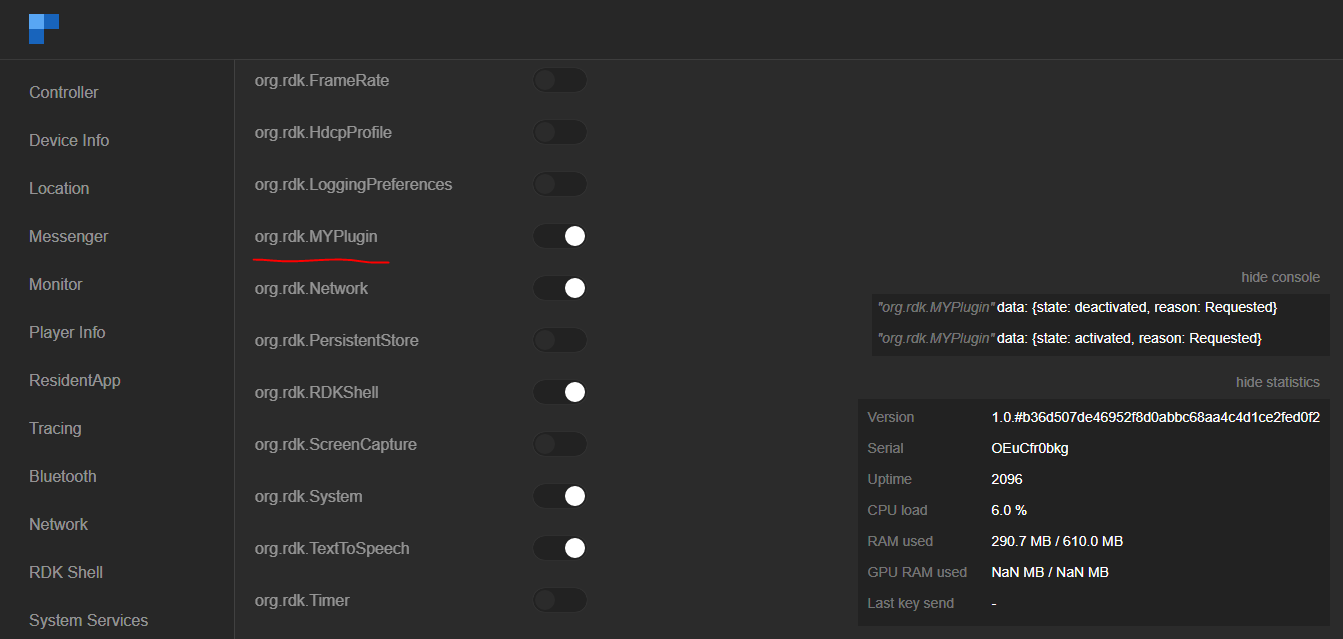
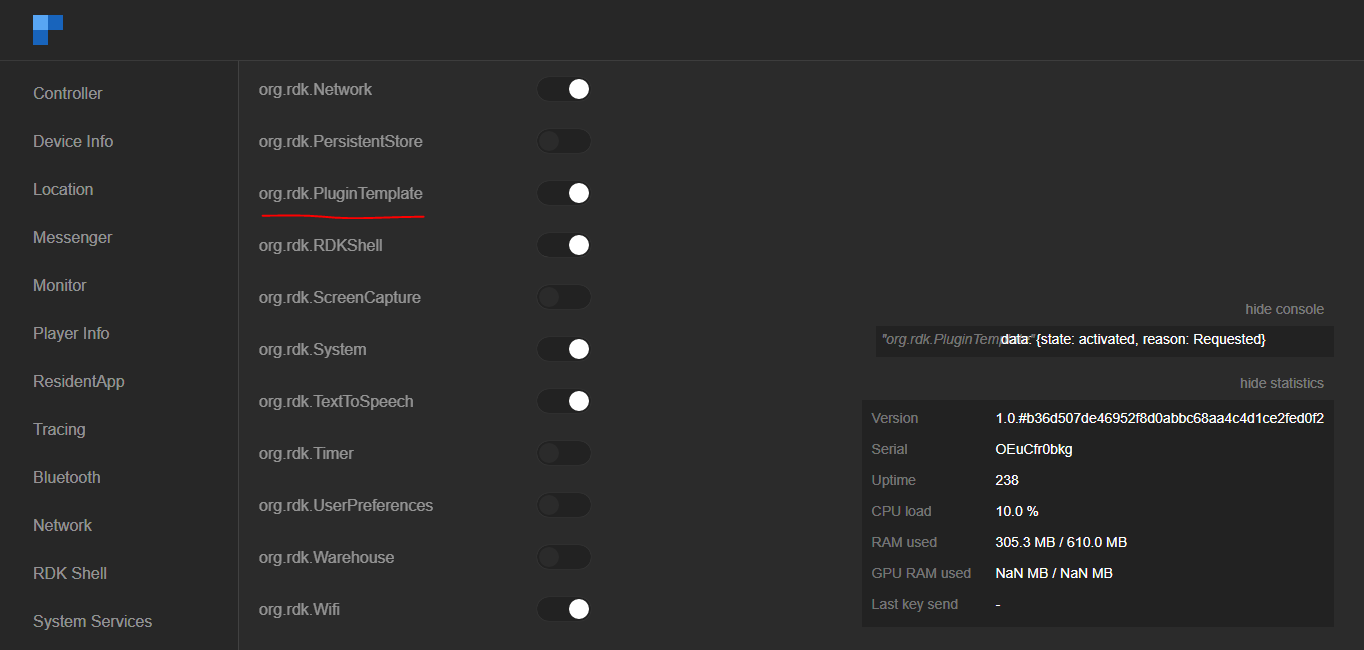
PluginTemplate added

diff --git a/PluginTemplate/PluginTemplate.cpp b/PluginTemplate/PluginTemplate.cpp
@@ -4,7 +4,7 @@ should be defined inside the below namespace.
 */
 
 // include all the depended libraries
-#include "MYPlugin.h"
+#include "PluginTemplate.h"
 #include <algorithm>
 #include "dsMgr.h"
 #include "libIBusDaemon.h"
@@ -37,33 +37,33 @@ namespace WPEFramework {
 
     namespace Plugin {
 
-        SERVICE_REGISTRATION(MYPlugin, 1, 0);		//service registration MACRO used for registering service
+        SERVICE_REGISTRATION(PluginTemplate, 1, 0);		//service registration MACRO used for registering service
 
-        MYPlugin* MYPlugin::_instance = nullptr;
+        PluginTemplate* PluginTemplate::_instance = nullptr;
 
-        MYPlugin::MYPlugin()				//constructor
+        PluginTemplate::PluginTemplate()				//constructor
             : AbstractPlugin()
         {
             LOGINFO("ctor");
-            MYPlugin::_instance = this;
+            PluginTemplate::_instance = this;
 	    
 	    // All the methods declared in Plugin.h should be registered here	
-            registerMethod("getMYPluginStatus", &MYPlugin::getMYPluginStatus, this);
-            registerMethod("getMYPluginList", &MYPlugin::getMYPluginList, this);
-            registerMethod("getMYPluginInfo", &MYPlugin::getMYPluginInfo, this);
-            registerMethod("getConnectedVideoDisplays", &MYPlugin::getConnectedVideoDisplays, this);
+            registerMethod("getPluginTemplateStatus", &PluginTemplate::getPluginTemplateStatus, this);
+            registerMethod("getPluginTemplateList", &PluginTemplate::getPluginTemplateList, this);
+            registerMethod("getPluginTemplateInfo", &PluginTemplate::getPluginTemplateInfo, this);
+            registerMethod("getConnectedVideoDisplays", &PluginTemplate::getConnectedVideoDisplays, this);
 
         }
 
-        MYPlugin::~MYPlugin()				//destrucor
+        PluginTemplate::~PluginTemplate()				//destrucor
         {
             LOGINFO("dtor");
-            MYPlugin::_instance = nullptr;
+            PluginTemplate::_instance = nullptr;
         }
 
 
 	//initialize and deinitialize or activate or deactivate handler for the plugin services:
-        const string MYPlugin::Initialize(PluginHost::IShell* /* service */)
+        const string PluginTemplate::Initialize(PluginHost::IShell* /* service */)
         {
             LOGINFO();
 
@@ -72,14 +72,14 @@ namespace WPEFramework {
             return (string());
         }
 
-        void MYPlugin::Deinitialize(PluginHost::IShell* /* service */)
+        void PluginTemplate::Deinitialize(PluginHost::IShell* /* service */)
         {
             LOGINFO();
 	    DeinitializeIARM();
 
         }
 
-        void MYPlugin::InitializeIARM()
+        void PluginTemplate::InitializeIARM()
         {
             LOGINFO();
 
@@ -101,7 +101,7 @@ namespace WPEFramework {
         }
 
 
-        void MYPlugin::DeinitializeIARM()
+        void PluginTemplate::DeinitializeIARM()
         {
             LOGINFO();
 
@@ -124,7 +124,7 @@ namespace WPEFramework {
 
 
 	// hedmi event handler
-        void MYPlugin::dsHdmiEventHandler(const char *owner, IARM_EventId_t eventId, void *data, size_t len)
+        void PluginTemplate::dsHdmiEventHandler(const char *owner, IARM_EventId_t eventId, void *data, size_t len)
         {
             LOGINFO();
             switch (eventId)
@@ -134,8 +134,8 @@ namespace WPEFramework {
                     IARM_Bus_DSMgr_EventData_t *eventData = (IARM_Bus_DSMgr_EventData_t *)data;
                     int hdmi_hotplug_event = eventData->data.hdmi_hpd.event;
                     LOGINFO("Received IARM_BUS_DSMGR_EVENT_HDMI_HOTPLUG  event data:%d ", hdmi_hotplug_event);
-                    if(MYPlugin::_instance)
-                        MYPlugin::_instance->connectedVideoDisplaysUpdated(hdmi_hotplug_event);
+                    if(PluginTemplate::_instance)
+                        PluginTemplate::_instance->connectedVideoDisplaysUpdated(hdmi_hotplug_event);
                 }
                 break;
             default:
@@ -159,7 +159,7 @@ namespace WPEFramework {
        
 	
 	// to get connected video displays
-        uint32_t MYPlugin::getConnectedVideoDisplays(const JsonObject& parameters, JsonObject& response)
+        uint32_t PluginTemplate::getConnectedVideoDisplays(const JsonObject& parameters, JsonObject& response)
         {
             LOGINFOMETHOD();
 
@@ -170,7 +170,7 @@ namespace WPEFramework {
         }
 
 
-        void MYPlugin::getConnectedVideoDisplaysHelper(vector<string>& connectedDisplays)
+        void PluginTemplate::getConnectedVideoDisplaysHelper(vector<string>& connectedDisplays)
         {
             LOGINFO();
             try
@@ -205,7 +205,7 @@ namespace WPEFramework {
 
 
 	// Begin methods
-	uint32_t MYPlugin::getMYPluginStatus(const JsonObject& parameters, JsonObject& response)
+	uint32_t PluginTemplate::getPluginTemplateStatus(const JsonObject& parameters, JsonObject& response)
         {  
             LOGINFOMETHOD();
 
@@ -216,7 +216,7 @@ namespace WPEFramework {
         }
  
  
- 	uint32_t MYPlugin::getMYPluginList(const JsonObject& parameters, JsonObject& response)
+ 	uint32_t PluginTemplate::getPluginTemplateList(const JsonObject& parameters, JsonObject& response)
         {   
                 LOGINFOMETHOD();
                 vector<string> List_plugin;
@@ -230,7 +230,7 @@ namespace WPEFramework {
 		returnResponse(true);
 	}
 
-	uint32_t MYPlugin::getMYPluginInfo(const JsonObject& parameters, JsonObject& response)
+	uint32_t PluginTemplate::getPluginTemplateInfo(const JsonObject& parameters, JsonObject& response)
 	{
  	LOGINFOMETHOD();
   	string videoDisplay = parameters.HasLabel("plugin_name") ? parameters["plugin_name"].String() : "plug-A";
@@ -242,7 +242,7 @@ namespace WPEFramework {
          }
 
 
-        void MYPlugin::connectedVideoDisplaysUpdated(int hdmiHotPlugEvent)
+        void PluginTemplate::connectedVideoDisplaysUpdated(int hdmiHotPlugEvent)
         {
             LOGINFO();
             static int previousStatus = HDMI_HOT_PLUG_EVENT_CONNECTED;

diff --git a/PluginTemplate/PluginTemplate.h b/PluginTemplate/PluginTemplate.h
@@ -23,7 +23,7 @@ namespace WPEFramework {
 		// As the registration/unregistration of notifications is realized by the class PluginHost::JSONRPC,
 		// this class exposes a public method called, Notify(), using this methods, all subscribed clients
 		// will receive a JSONRPC message as a notification, in case this method is called.
-        class MYPlugin : public AbstractPlugin {
+        class PluginTemplate : public AbstractPlugin {
         private:
             typedef Core::JSON::String JString;
             typedef Core::JSON::ArrayType<JString> JStringArray;
@@ -31,9 +31,9 @@ namespace WPEFramework {
 
 
             //Begin methods
-            uint32_t getMYPluginStatus(const JsonObject& parameters, JsonObject& response);  // to retrieve plugin status(eg)
-            uint32_t getMYPluginList(const JsonObject& parameters, JsonObject& response);    // to get coonected plugins(eg)
-	    uint32_t getMYPluginInfo(const JsonObject& parameters, JsonObject& response);    // to retrive selected plugin info(eg)
+            uint32_t getPluginTemplateStatus(const JsonObject& parameters, JsonObject& response);  // to retrieve plugin status(eg)
+            uint32_t getPluginTemplateList(const JsonObject& parameters, JsonObject& response);    // to get coonected plugins(eg)
+	    uint32_t getPluginTemplateInfo(const JsonObject& parameters, JsonObject& response);    // to retrive selected plugin info(eg)
 
 	    uint32_t getConnectedVideoDisplays(const JsonObject& parameters, JsonObject& response); // to get information about connected display
 
@@ -44,12 +44,12 @@ namespace WPEFramework {
 
 
         public:
-            MYPlugin();									// constructor
-            virtual ~MYPlugin();							// destructor
+            PluginTemplate();									// constructor
+            virtual ~PluginTemplate();							// destructor
             virtual const string Initialize(PluginHost::IShell* service) override;	//initialize IARM plugin services
             virtual void Deinitialize(PluginHost::IShell* service) override;		//deinitialize IARM plugin services
         public:
-            static MYPlugin* _instance;
+            static PluginTemplate* _instance;
 
         private:
             void InitializeIARM();										// calling IARM services

diff --git a/PluginTemplate/Module.h b/PluginTemplate/Module.h
@@ -1,9 +1,9 @@
 
 #pragma once                                  //Specifies that the compiler includes the header file only once, when compiling a source code file.
 
-// if module name is not define then define module name as MYPlugin
+// if module name is not define then define module name as PluginTemplate
 #ifndef MODULE_NAME
-#define MODULE_NAME MYPlugin
+#define MODULE_NAME PluginTemplate
 #endif
 
 #include <plugins/plugins.h>                   // include libraries

diff --git a/PluginTemplate/README.md b/PluginTemplate/README.md
@@ -11,12 +11,12 @@ Steps involved in implementing new RDK services Plug-In
 	cd build-raspberrypi-rdk-mc/tmp/work/cortexa7t2hf-neon-vfpv4-rdk-linux-gnueabi/rdkservices/3.0+gitAUTOINC+1180f1ee5b-r1/git/
 
  Create Plugin-Name folder
-	Eg: mkdir MYPlugin
+	Eg: mkdir PluginTemplate
 
 Inside PluginName directory:
 ----------------------------
  1.	<PluginName>.json : This file contains the plugin's information like schema, information and interface json file
-	eg: 	MYPlugin.json
+	eg: 	PluginTemplate.json
 	DeviceInfo.json
  2.	CmakeLists.txt:  To compile the Plug-in code and to generate the shared library (“.so”)
 	This will handle all the dependencies as well
@@ -29,12 +29,12 @@ Inside PluginName directory:
  7.	<PluginName>.cpp: This class does contains all the definitions for the methods declared in the Plugin.h and those definitions should be defined inside the below namespace.
  8.	Cmake / (directory) :
 
-		MYPlugin/
+		PluginTemplate/
 		├── CMakeLists.txt
-		├── MYPlugin.config
-		├── MYPlugin.cpp
-		├── MYPlugin.h
-		├── MYPlugin.json
+		├── PluginTemplate.config
+		├── PluginTemplate.cpp
+		├── PluginTemplate.h
+		├── PluginTemplate.json
 		├── Module.cpp
 		├── Module.h
 		├── README.md
@@ -42,7 +42,7 @@ Inside PluginName directory:
 		|   ├── FindDS.cmake
 		│   └── FindIARMBus.cmake
 		└── doc
-			└── MYPlugin.md
+			└── PluginTemplate.md
 
 <PluginName>.json :
 -------------------
@@ -65,14 +65,14 @@ Inside PluginName directory:
 			}
 			
  eg:
- MYPlugin.json
+ PluginTemplate.json
 				{
-				 "locator":"libWPEFrameworkMYPlugin.so",
-				 "classname":"MYPlugin",
+				 "locator":"libWPEFrameworkPluginTemplate.so",
+				 "classname":"PluginTemplate",
 				 "precondition":[
 				  "Platform"
 				 ],
-				 "callsign":"org.rdk.MYPlugin",
+				 "callsign":"org.rdk.PluginTemplate",
 				 "autostart":false
 				}
 
@@ -81,10 +81,10 @@ Inside PluginName directory:
 --------------------
  This file initial configuration setting.
 
- eg: MYPlugin.config
+ eg: PluginTemplate.config
 			set (autostart false)
 			set (preconditions Platform)
-			set (callsign "org.rdk.MYPlugin")
+			set (callsign "org.rdk.PluginTemplate")
 			
 
 <PluginName>.h
@@ -112,8 +112,8 @@ Inside PluginName directory:
 			} 
 
 
- eg: MYPlugin.h
- for more information refer MYPlugin.h 
+ eg: PluginTemplate.h
+ for more information refer PluginTemplate.h 
 
 <PluginName>.cpp:
 ----------------- 
@@ -133,13 +133,13 @@ Inside PluginName directory:
 		
  To initialize and deinitialize or activate or deactivate handler for the plugin services:
 
-        const string MYPlugin::Initialize(PluginHost::IShell* /* service */)
+        const string PluginTemplate::Initialize(PluginHost::IShell* /* service */)
         {
             LOGINFO();
             return (string());
         }
 
-        void MYPlugin::Deinitialize(PluginHost::IShell* /* service */)
+        void PluginTemplate::Deinitialize(PluginHost::IShell* /* service */)
         {
             LOGINFO();
         }
@@ -172,7 +172,7 @@ code control Flow:
 ------------------
  1) Enable or disable the plug-in flag in the recipe file
  2) add this flag into the main CMakeLists.txt file present in the rdkservices
- 3) it will invoke CMakeLists file present in the <plugin name>/ (eg: MYPlugin/CMakeLists.txt)
+ 3) it will invoke CMakeLists file present in the <plugin name>/ (eg: PluginTemplate/CMakeLists.txt)
  4) When this file started to execute it finds dependencies, packages. it compiled and generate .so file
 
 
@@ -195,7 +195,7 @@ To add plugin in rdkservices CMakeLists.txt:
  add these lines :
 
 		  if(PLUGIN_MYPLUGIN)
-			  add_subdirectory(MYPlugin)
+			  add_subdirectory(PluginTemplate)
 		  endif()
 
  it will invoke your CMakeLists.txt file present in your plugin directory. 
@@ -210,35 +210,35 @@ Compilation and Install:
 
  once build complete copy .json, .so file into raspberrypi
 	to copy .json file:
-		Copy the Plugin.json(eg: MYPlugin.json) file to “/etc/WPEFramework/plugins” in raspberrypi
+		Copy the Plugin.json(eg: PluginTemplate.json) file to “/etc/WPEFramework/plugins” in raspberrypi
 	to copy .so file:
 		libWPEFrameworkPlugin.so file present in the build directory.
-		build-raspberrypi-rdk-mc/tmp/work/cortexa7t2hf-neon-vfpv4-rdk-linux-gnueabi/rdkservices/3.0+gitAUTOINC+1180f1ee5b-r1/build/MYPlugin
+		build-raspberrypi-rdk-mc/tmp/work/cortexa7t2hf-neon-vfpv4-rdk-linux-gnueabi/rdkservices/3.0+gitAUTOINC+1180f1ee5b-r1/build/PluginTemplate
 		Copy the plugin library (libWPEFrameworkPlugin.so) to “/usr/lib/wpeframework/plugins” 
 	
  so that the controller plugin identify it and list it in the WebUI (controller UI ) 
 
 
 
-MYPlugin API :
+PluginTemplate API :
 ------------
  Each RDK Service can be validated through JSON RPC Commands through HTTP.  
  It has a request and response in JSON format. 
  Note: the argument is case sensitive
- "callsign":"org.rdk.MYPlugin"
+ "callsign":"org.rdk.PluginTemplate"
 
  Activate and deactivate API: 
  Any service can be enabled or disabled also through JSONRPC commands. 
 
  activate: 
 
-	curl http://localhost:9998/jsonrpc --header "Content-Type: application/json" --request POST --data '{ "jsonrpc":"2.0", "id":3, "method":"Controller.1.activate", "params":{"callsign":"org.rdk.MYPlugin"} }'  
+	curl http://localhost:9998/jsonrpc --header "Content-Type: application/json" --request POST --data '{ "jsonrpc":"2.0", "id":3, "method":"Controller.1.activate", "params":{"callsign":"org.rdk.PluginTemplate"} }'  
 	{"jsonrpc":"2.0","id":3,"result":{"success":true}}  
 	callsign argument can accept all plugins 
 
  deactivate:  
 
-	curl http://localhost:9998/jsonrpc --header "Content-Type: application/json" --request POST --data '{ "jsonrpc":"2.0", "id":3, "method":"Controller.1.deactivate", "params":{"callsign":"org.rdk.MYPlugin"} }'  
+	curl http://localhost:9998/jsonrpc --header "Content-Type: application/json" --request POST --data '{ "jsonrpc":"2.0", "id":3, "method":"Controller.1.deactivate", "params":{"callsign":"org.rdk.PluginTemplate"} }'  
 	{"jsonrpc":"2.0","id":3,"result":{"success":true}} 
 
 
@@ -248,25 +248,25 @@ MYPlugin API :
 
  getPluginStatus :
  
-	curl http://127.0.0.1:9998/jsonrpc --header "Content-Type: application/json" --request POST --data '{"jsonrpc":"2.0", "id":3, "method":"org.rdk.MYPlugin.1.getMYPluginStatus"}' 
+	curl http://127.0.0.1:9998/jsonrpc --header "Content-Type: application/json" --request POST --data '{"jsonrpc":"2.0", "id":3, "method":"org.rdk.PluginTemplate.1.getPluginTemplateStatus"}' 
 	{"jsonrpc":"2.0","id":3,"result":{"connection status from plugin":["CONNECTED"],"success":true}} 
 
- getMYPluginList :
+ getPluginTemplateList :
 
-	curl http://127.0.0.1:9998/jsonrpc --header "Content-Type: application/json" --request POST --data '{"jsonrpc":"2.0", "id":3, "method":"org.rdk.MYPlugin.1.getMYPluginList"}' 
+	curl http://127.0.0.1:9998/jsonrpc --header "Content-Type: application/json" --request POST --data '{"jsonrpc":"2.0", "id":3, "method":"org.rdk.PluginTemplate.1.getPluginTemplateList"}' 
 	{"jsonrpc":"2.0","id":3,"result":{"Supported plugin list":["plug-A","plug-B","plug-C","plug-D","plug-E"],"success":true}} 
 
- getMYPluginInfo : 
+ getPluginTemplateInfo : 
 
-	curl http://127.0.0.1:9998/jsonrpc --header "Content-Type: application/json" --request POST --data '{"jsonrpc":"2.0", "id":3, "method":"org.rdk.MYPlugin.1.getMYPluginInfo", "params":{"plugin_name":"plug-A"}}' 
+	curl http://127.0.0.1:9998/jsonrpc --header "Content-Type: application/json" --request POST --data '{"jsonrpc":"2.0", "id":3, "method":"org.rdk.PluginTemplate.1.getPluginTemplateInfo", "params":{"plugin_name":"plug-A"}}' 
 	{"jsonrpc":"2.0","id":3,"result":{"supportedTvResolutions":["xyz-plugin","no:430HT5"],"success":true}}root@raspberrypi-rdk-mc:~#
 
 event API when hdmi connected :
-	curl http://127.0.0.1:9998/jsonrpc --header "Content-Type: application/json" --request POST --data '{"jsonrpc":"2.0", "id":3, "method":"org.rdk.MYPlugin.1.getConnectedVideoDisplays"}'
+	curl http://127.0.0.1:9998/jsonrpc --header "Content-Type: application/json" --request POST --data '{"jsonrpc":"2.0", "id":3, "method":"org.rdk.PluginTemplate.1.getConnectedVideoDisplays"}'
 	{"jsonrpc":"2.0","id":3,"result":{"connectedVideoDisplays":["HDMI0"],"success":true}}root@raspberrypi-rdk-mc:~#
 
 event API when hdmi not connected :
-	root@raspberrypi-rdk-mc:~# curl http://127.0.0.1:9998/jsonrpc --header "Content-Type: application/json" --request POST --data '{"jsonrpc":"2.0", "id":3, "method":"org.rdk.MYPlugin.1.getConnectedVideoDisplays"}'
+	root@raspberrypi-rdk-mc:~# curl http://127.0.0.1:9998/jsonrpc --header "Content-Type: application/json" --request POST --data '{"jsonrpc":"2.0", "id":3, "method":"org.rdk.PluginTemplate.1.getConnectedVideoDisplays"}'
 	{"jsonrpc":"2.0","id":3,"result":{"connectedVideoDisplays":[],"success":true}}root@raspberrypi-rdk-mc:~#
 
 Controller UI :
